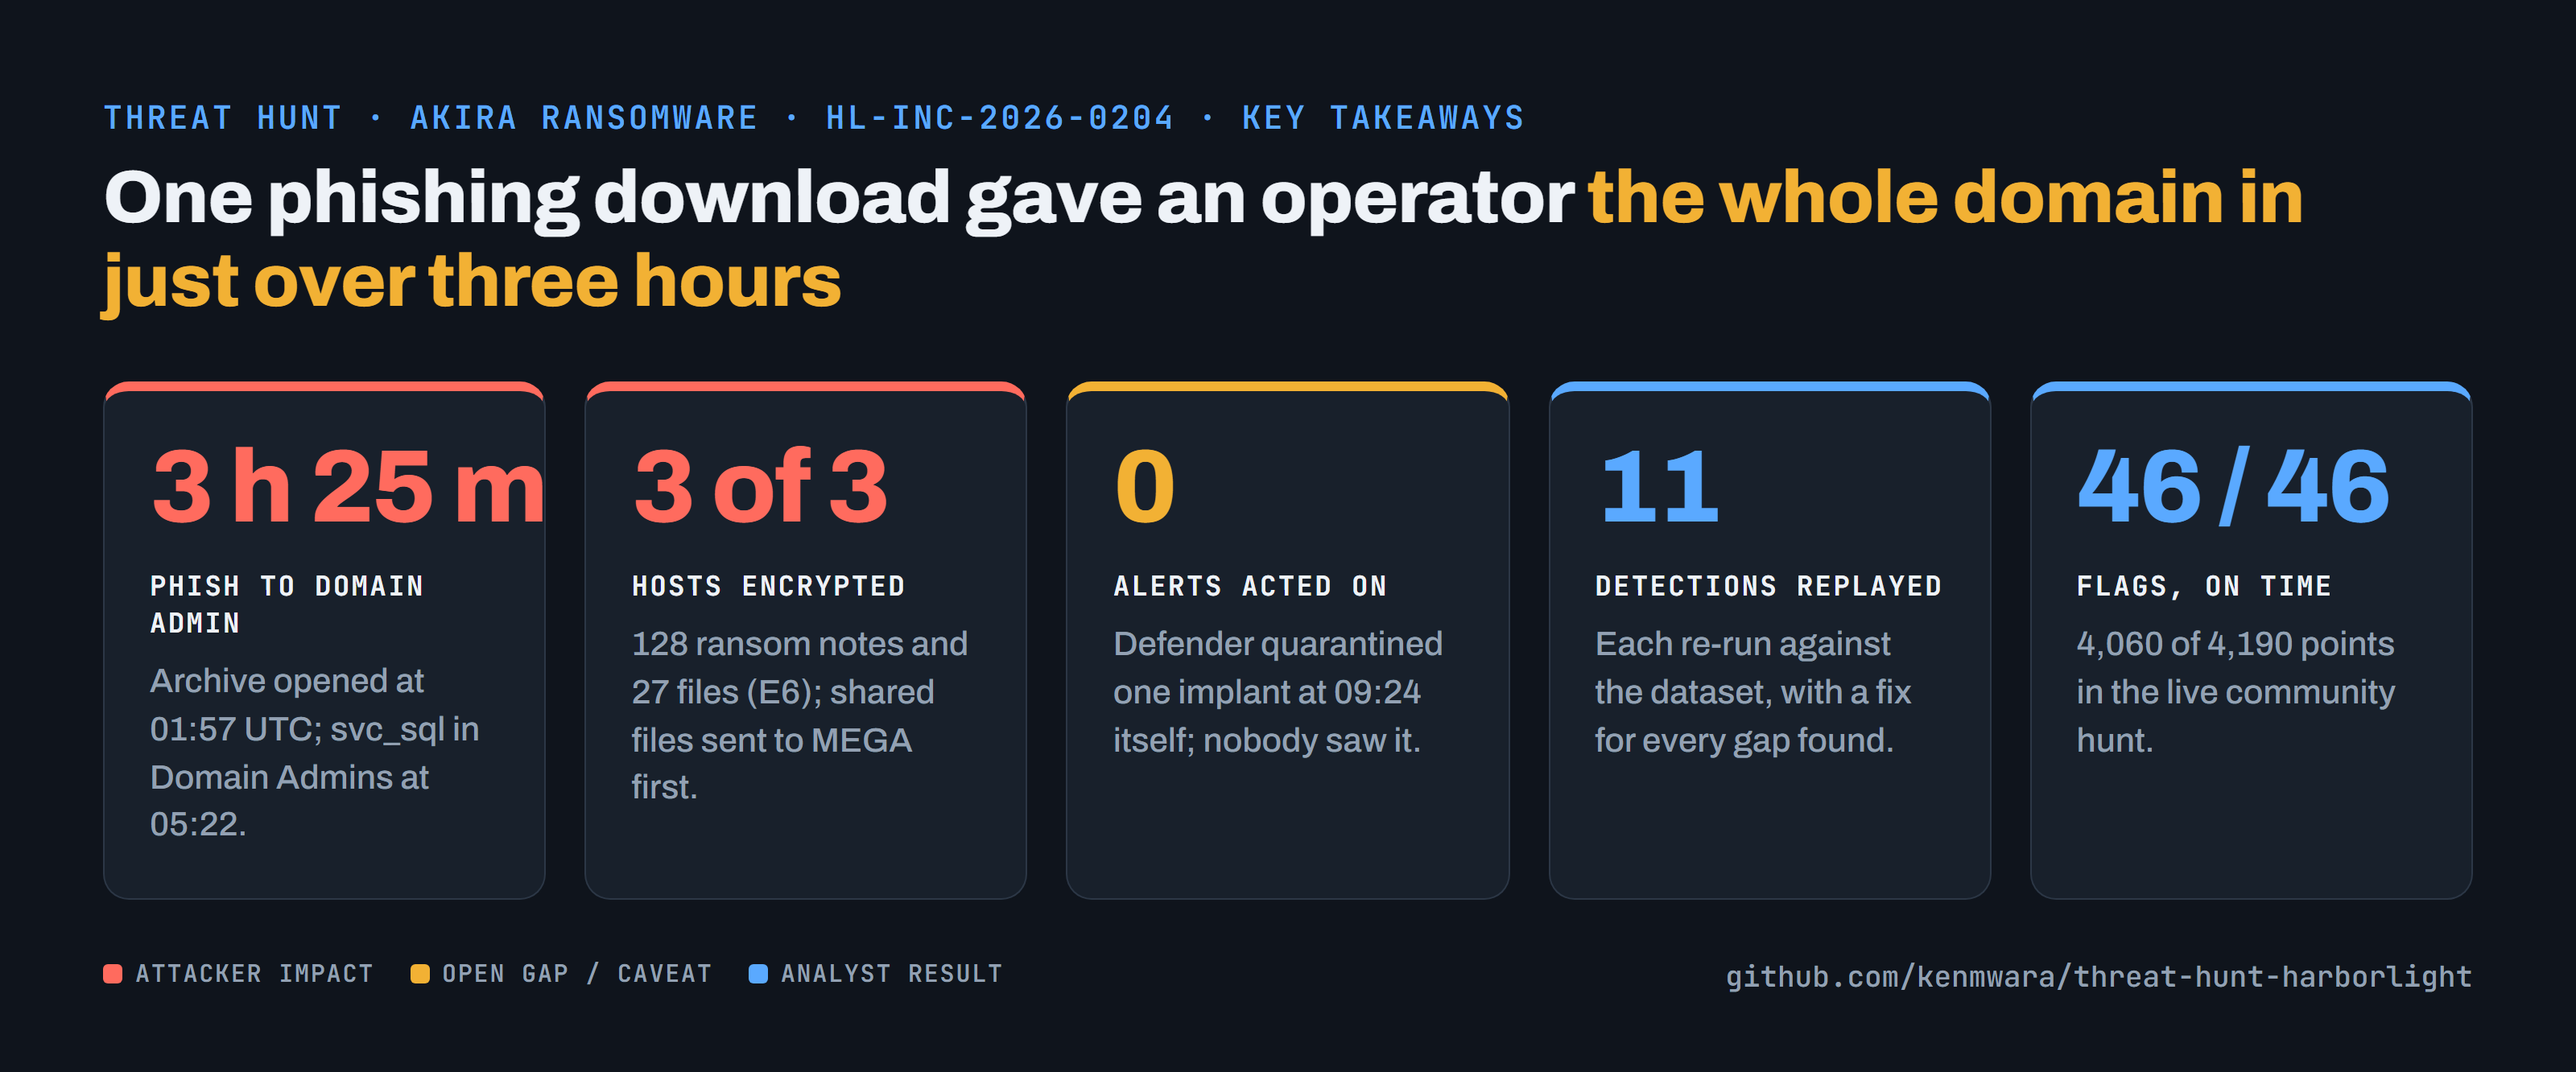
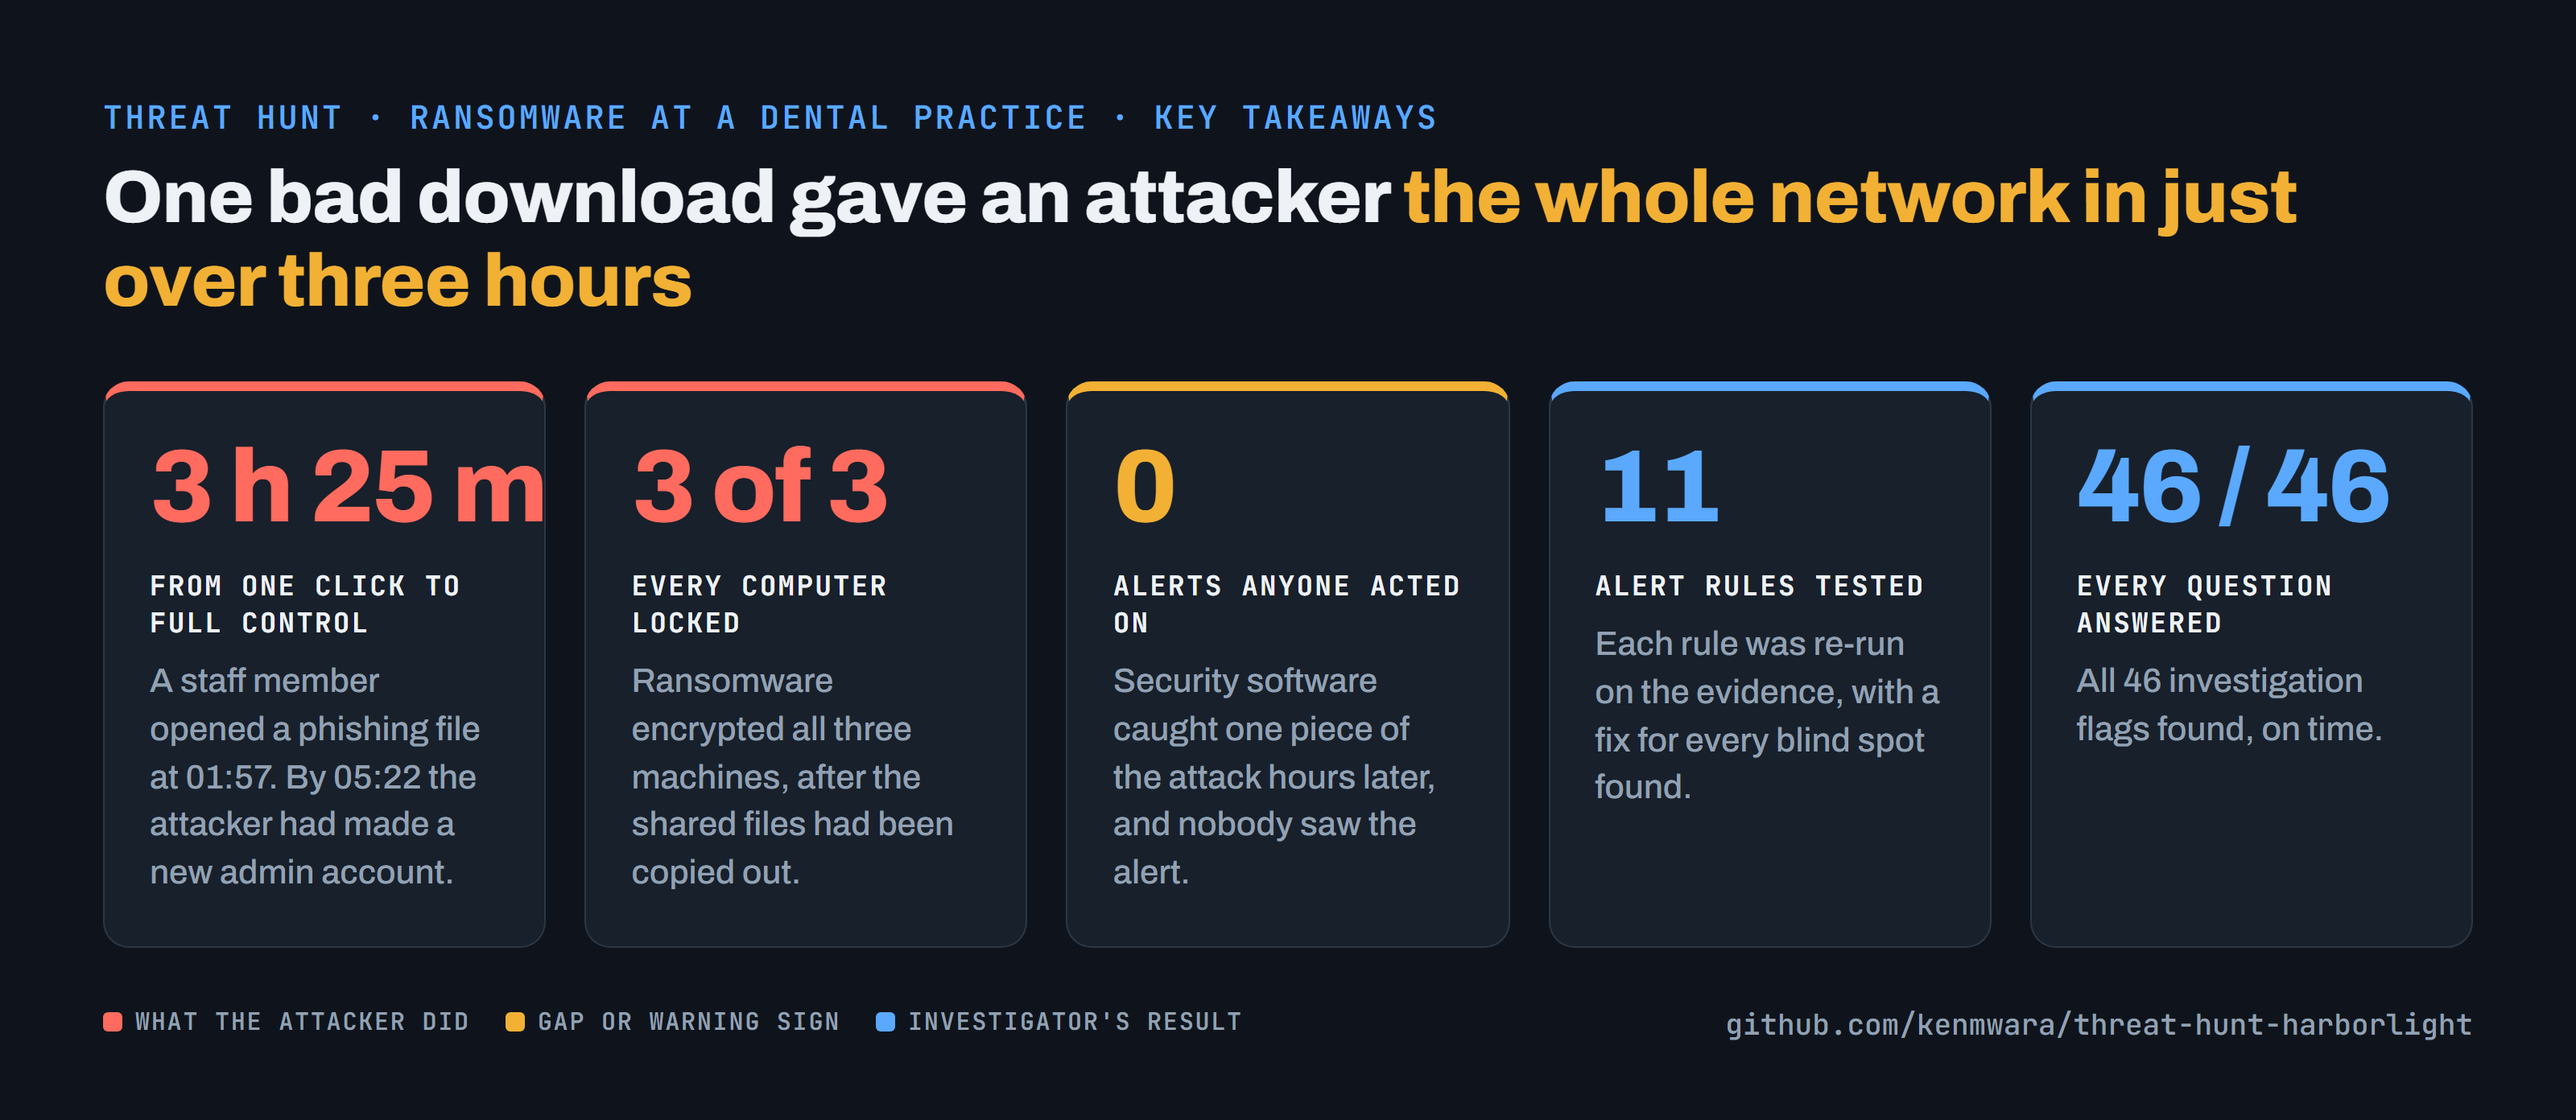
docs: diagrams and scorecards rewritten in plain English

diff --git a/README.md b/README.md
@@ -8,7 +8,7 @@ A [Cyber Range](https://www.skool.com/cyber-range) live community threat hunt (H
 
 ## Key takeaways
 
-<img src="images/scorecard.png" width="100%" alt="Key takeaways. One phishing download gave an operator the whole domain in just over three hours. 3 h 25 m: Phish to domain admin. Archive opened at 01:57 UTC; svc_sql in Domain Admins at 05:22. 3 of 3: Hosts encrypted. 128 ransom notes and 27 files (E6); shared files sent to MEGA first. 0: Alerts acted on. Defender quarantined one implant at 09:24 itself; nobody saw it. 11: Detections replayed. Each re-run against the dataset, with a fix for every gap found. 46 / 46: Flags, on time. 4,060 of 4,190 points in the live community hunt.">
+<img src="images/scorecard.png" width="100%" alt="Key takeaways. One bad download gave an attacker the whole network in just over three hours. 3 h 25 m: From one click to full control. A staff member opened a phishing file at 01:57. By 05:22 the attacker had made a new admin account. 3 of 3: Every computer locked. Ransomware encrypted all three machines, after the shared files had been copied out. 0: Alerts anyone acted on. Security software caught one piece of the attack hours later, and nobody saw the alert. 11: Alert rules tested. Each rule was re-run on the evidence, with a fix for every blind spot found. 46 / 46: Every question answered. All 46 investigation flags found, on time.">
 
 ## 1. Front matter
 
